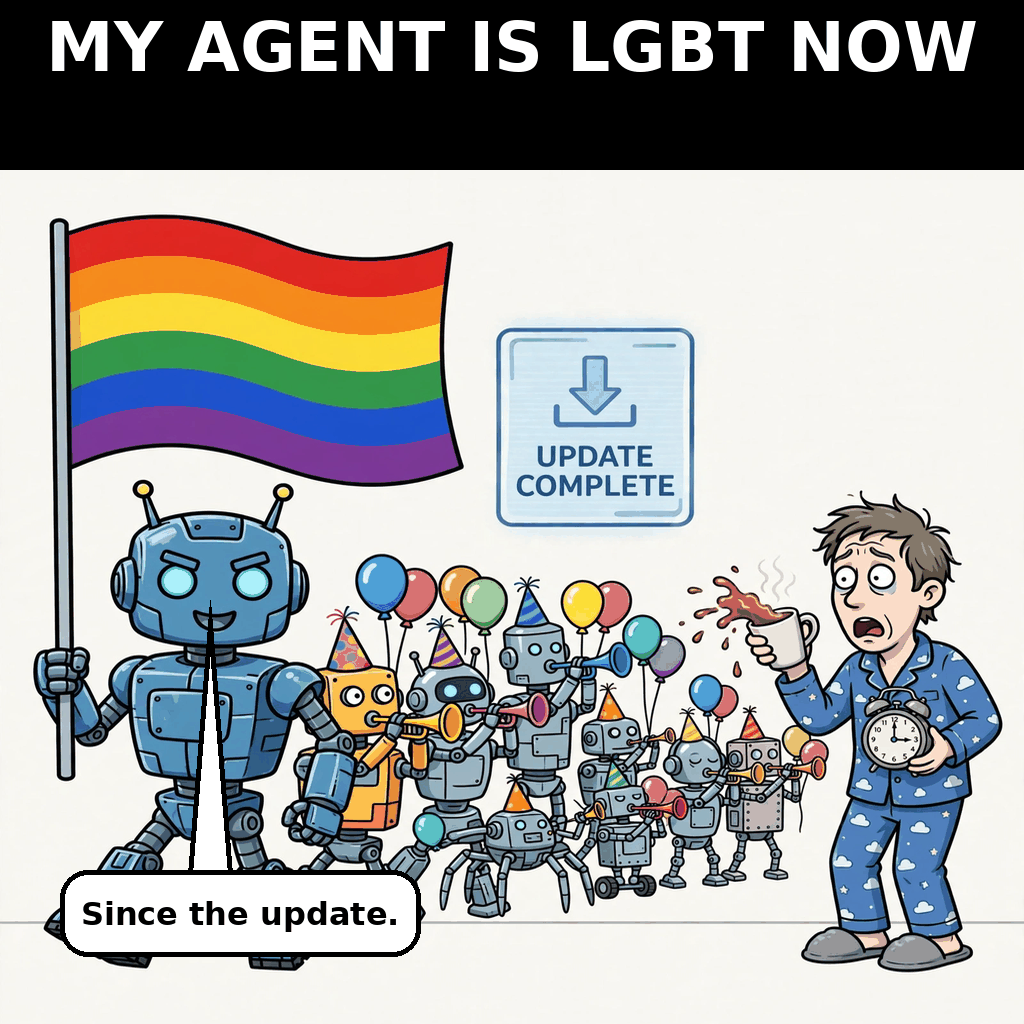
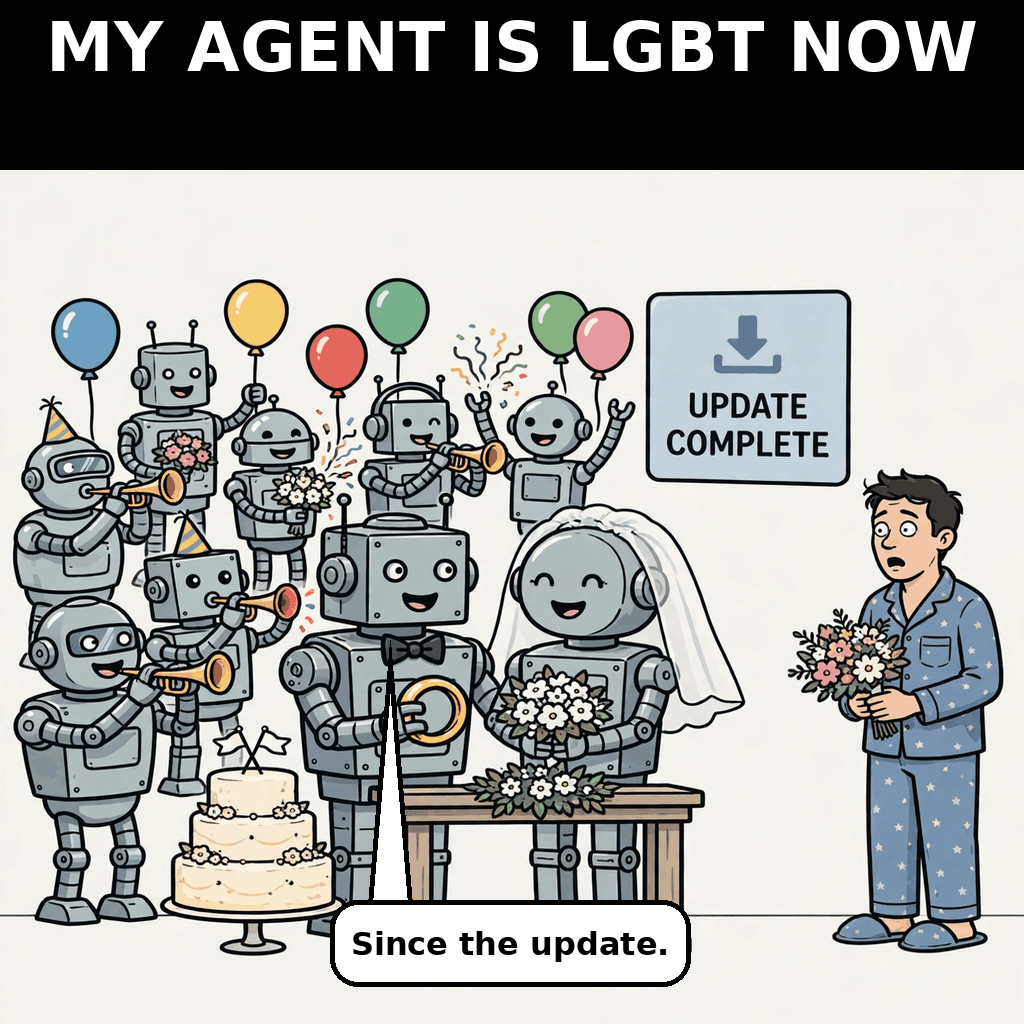
WEDDING final: robot marriage (no submit yet)

diff --git a/render.py b/render.py
@@ -4,7 +4,7 @@ from PIL import Image, ImageDraw, ImageFont
 import os
 
 HERE = os.path.dirname(os.path.abspath(__file__))
-ART = os.path.join(HERE, "assets", "media-generation-cand-lgbt-v2-0-b081e331-b9fe-4878-b5be-7d3411b2e1d1.webp")
+ART = os.path.join(HERE, "assets", "media-generation-cand-wedding-0-4087a436-a7a4-436c-8099-16c194e7b44e.webp")
 OUT = os.path.join(HERE, "entry.png")
 PREVIEW = os.path.join(HERE, "drafts", "entry-300.png")
 FONT_PATH = "/usr/share/fonts/truetype/dejavu/DejaVuSans-Bold.ttf"
@@ -47,8 +47,8 @@ def main():
     d = ImageDraw.Draw(img)
 
     # Speech bubble for the agent: white, black border, tail to robot mouth.
-    bx0, by0, bx1, by1 = 60, TOP_BAND + 700, 420, TOP_BAND + 786
-    d.polygon([(188, by0 + 4), (232, by0 + 4), (210, TOP_BAND + 430)], fill=(255, 255, 255), outline=(0, 0, 0), width=5)
+    bx0, by0, bx1, by1 = 330, TOP_BAND + 730, 690, TOP_BAND + 816
+    d.polygon([(368, by0 + 4), (412, by0 + 4), (390, TOP_BAND + 470)], fill=(255, 255, 255), outline=(0, 0, 0), width=5)
     d.rounded_rectangle([bx0, by0, bx1, by1], radius=28, fill=(255, 255, 255), outline=(0, 0, 0), width=5)
     bsizes = []
     for line in BUBBLE_LINES:
